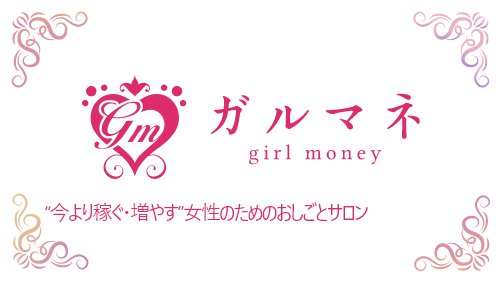
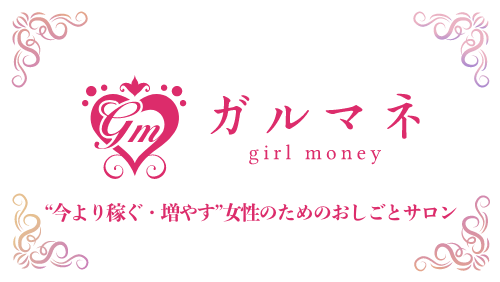
Fixed flower images / Removed background flowers and made them separate images each

Changed region(s): [[0.09, 0.7092, 0.93, 0.7943]]

diff --git a/index.html b/index.html
@@ -60,7 +60,12 @@
 	<main>
 
 		<div class="hero" id="js-hero">
-	<div class="hero__decors" id="js-hero-decors"></div>
+	<div class="hero__decors" id="js-hero-decors">
+		<div style="background-image: url('public/images/hero-flower-1.png');"></div>
+		<div style="background-image: url('public/images/hero-flower-2.png');"></div>
+		<div style="background-image: url('public/images/hero-flower-3.png');"></div>
+		<div style="background-image: url('public/images/hero-flower-4.png');"></div>
+	</div>
 	<img class="hero__logo" src="public/images/logo.png" alt="" id="js-hero-logo">
 	<h1 class="hero__heading" id="js-hero-title">
 		<img src="public/images/hero-heading.png" alt="">
@@ -98,7 +103,13 @@
 			</div>
 		</section>
 		<section class="l-services" id="js-services-section">
-			<div class="l-services__decors"></div>
+			<div class="l-services__decors">
+				<div style="background-image: url('public/images/services-flower-1.png');"></div>
+				<div style="background-image: url('public/images/services-flower-2.png');"></div>
+				<div style="background-image: url('public/images/services-flower-3.png');"></div>
+				<div style="background-image: url('public/images/services-flower-4.png');"></div>
+				<div style="background-image: url('public/images/services-flower-5.png');"></div>
+			</div>
 			<div class="l-container">
 				<div class="services">
 	<h2 class="services__heading js-show" data-offset="350">
@@ -151,7 +162,12 @@
 			</div>
 		</aside>
 		<section class="l-faq" id="js-faq-section">
-			<div class="l-faq__decors"></div>
+			<div class="l-faq__decors">
+				<div style="background-image: url('public/images/faq-flower-1.png');"></div>
+				<div style="background-image: url('public/images/faq-flower-2.png');"></div>
+				<div style="background-image: url('public/images/faq-flower-3.png');"></div>
+				<div style="background-image: url('public/images/faq-flower-4.png');"></div>
+			</div>
 			<div class="l-container">
 				<div class="faq">
 	<h2 class="faq__heading js-show">
@@ -211,7 +227,10 @@
 	</main>
 
 	<section class="l-footer" id="js-footer">
-		<div class="l-footer__decors"></div>
+		<div class="l-footer__decors">
+			<div style="background-image: url('public/images/footer-flower-1.png');"></div>
+			<div style="background-image: url('public/images/footer-flower-2.png');"></div>
+		</div>
 		<div class="l-container">
 			<footer class="footer">
 	<div class="footer__eyecatch">

diff --git a/src/sass/modules/hero.scss b/src/sass/modules/hero.scss
@@ -7,7 +7,7 @@
     background-color: #f092a2;
 
     @include max-screen($breakpoint-mobile) {
-        height: 96vh;
+        height: 92.5vh;
 
         text-align: center;
 
@@ -19,21 +19,46 @@
 }
 
 .hero__decors {
-    position: absolute;
-    top: 50px;
-    left: 0;
-
-    display: none;
-
-    width: 100vw;
-    height: 507px;
-
-    background-image: url(#{$path-image}hero-decor.png);
-    background-repeat: no-repeat;
-    background-size: cover;
+    position: relative;
 
     @include max-screen($breakpoint-mobile) {
         display: block;
+    }
+
+    div {
+        position: absolute;
+
+        background-repeat: no-repeat;
+        background-size: cover;
+
+        &:first-child {
+            top: 155px;
+            left: -20px;
+
+            width: 67px;
+            height: 92px;
+        }
+        &:nth-child(2) {
+            top: 48px;
+            right: 0;
+
+            width: 83px;
+            height: 161px;
+        }
+        &:nth-child(3) {
+            top: 400px;
+            left: 0;
+
+            width: 66px;
+            height: 152px;
+        }
+        &:last-child {
+            top: 240px;
+            right: 0;
+
+            width: 41px;
+            height: 64px;
+        }
     }
 }
 

diff --git a/src/sass/layout/l-services.scss b/src/sass/layout/l-services.scss
@@ -11,14 +11,48 @@
 }
 
 .l-services__decors {
-    position: absolute;
-    top: 170px;
-    left: 0;
+    position: relative;
 
-    width: 100vw;
-    height: 94%;
+    div {
+        position: absolute;
 
-    background-image: url(#{$path-image}services-decor.png);
-    background-repeat: no-repeat;
-    background-size: cover;
+        background-repeat: no-repeat;
+        background-size: cover;
+
+        &:first-child {
+            top: 100px;
+            right: 0;
+
+            width: 89px;
+            height: 191px;
+        }
+        &:nth-child(2) {
+            top: 653px;
+            left: 0;
+
+            width: 77px;
+            height: 157px;
+        }
+        &:nth-child(3) {
+            top: 1210px;
+            right: 0;
+
+            width: 83px;
+            height: 180px;
+        }
+        &:nth-child(4) {
+            top: 1755px;
+            left: 0;
+
+            width: 70px;
+            height: 114px;
+        }
+        &:last-child {
+            top: 1910px;
+            right: 0;
+
+            width: 89px;
+            height: 160px;
+        }
+    }
 }

diff --git a/src/sass/layout/l-faq.scss b/src/sass/layout/l-faq.scss
@@ -11,15 +11,42 @@
 }
 
 .l-faq__decors {
-    position: absolute;
+    position: relative;
     z-index: 2;
-    top: 30px;
-    left: 0;
 
-    width: 100vw;
-    height: 97%;
+    div {
+        position: absolute;
 
-    background-image: url(#{$path-image}faq-decor.png);
-    background-repeat: no-repeat;
-    background-size: cover;
+        background-repeat: no-repeat;
+        background-size: cover;
+
+        &:first-child {
+            top: -45px;
+            right: 0;
+
+            width: 60px;
+            height: 86px;
+        }
+        &:nth-child(2) {
+            top: 25px;
+            left: 0;
+
+            width: 59px;
+            height: 121px;
+        }
+        &:nth-child(3) {
+            top: 513px;
+            right: 0;
+
+            width: 58px;
+            height: 80px;
+        }
+        &:last-child {
+            top: 1015px;
+            left: 0;
+
+            width: 65px;
+            height: 109px;
+        }
+    }
 }

diff --git a/src/sass/modules/contact.scss b/src/sass/modules/contact.scss
@@ -45,7 +45,9 @@
 .contact__button {
     font-size: 23px;
     font-weight: bold;
-    line-height: 6;
+    line-height: 4.4;
+
+    position: relative;
 
     display: block;
 
@@ -59,16 +61,35 @@
     color: $color-primary;
     background-image: url(#{$path-image}line-button-bg.png);
     background-repeat: no-repeat;
-    background-size: contain;
+    background-size: cover;
 
     @include max-screen($breakpoint-mobile) {
         font-size: 18px;
 
         width: 353px;
-        height: 105px;
+        height: 85px;
         padding: 0 30px;
 
         text-align: left;
+
+        background-size: contain;
+    }
+
+    &:before {
+        position: absolute;
+        top: -13px;
+        left: 5px;
+
+        display: block;
+
+        width: 82px;
+        height: 33px;
+
+        content: '';
+
+        background-image: url(#{$path-image}line-button-text-wrap.png);
+        background-repeat: no-repeat;
+        background-size: contain;
     }
 }
 

diff --git a/src/sass/layout/l-footer.scss b/src/sass/layout/l-footer.scss
@@ -7,14 +7,27 @@
 }
 
 .l-footer__decors {
-    position: absolute;
-    top: 0;
-    left: 0;
+    position: relative;
 
-    width: 100vw;
-    height: 97%;
+    div {
+        position: absolute;
 
-    background-image: url(#{$path-image}footer-decor.png);
-    background-repeat: no-repeat;
-    background-size: cover;
+        background-repeat: no-repeat;
+        background-size: cover;
+
+        &:first-child {
+            top: -80px;
+            left: 0;
+
+            width: 136px;
+            height: 117px;
+        }
+        &:last-child {
+            top: 253px;
+            right: 0;
+
+            width: 101px;
+            height: 196px;
+        }
+    }
 }

diff --git a/src/sass/layout/l-contact.scss b/src/sass/layout/l-contact.scss
@@ -1,7 +1,7 @@
 .l-contact {
     position: relative;
 
-    padding: 60px 0 30px;
+    padding: 60px 0 25px;
 
     background-color: $color-primary;
 
@@ -47,7 +47,7 @@
 
         @include max-screen($breakpoint-mobile) {
             top: -60px;
-            left: 15px;
+            left: 25px;
 
             width: 100px;
             height: 100px;

diff --git a/src/sass/modules/faq.scss b/src/sass/modules/faq.scss
@@ -96,7 +96,7 @@
     justify-content: space-between;
     align-items: center;
     @include max-screen($breakpoint-mobile) {
-        margin-bottom: 80px;
+        margin-bottom: 90px;
     }
 
     &.faq__item--answer {

diff --git a/src/sass/modules/services.scss b/src/sass/modules/services.scss
@@ -56,7 +56,7 @@
 }
 
 .services__list {
-    margin: 50px 0 80px;
+    margin: 50px 0 90px;
 
     list-style-type: none;
 
